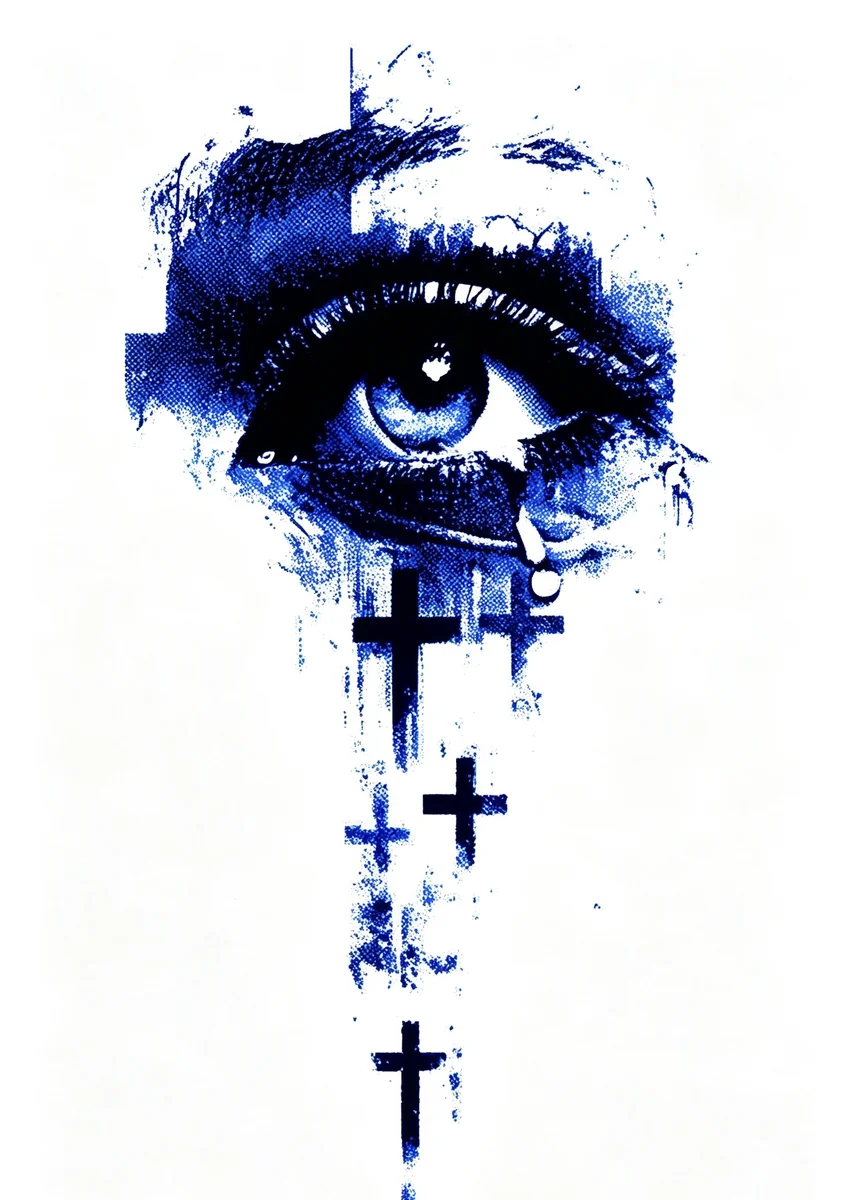
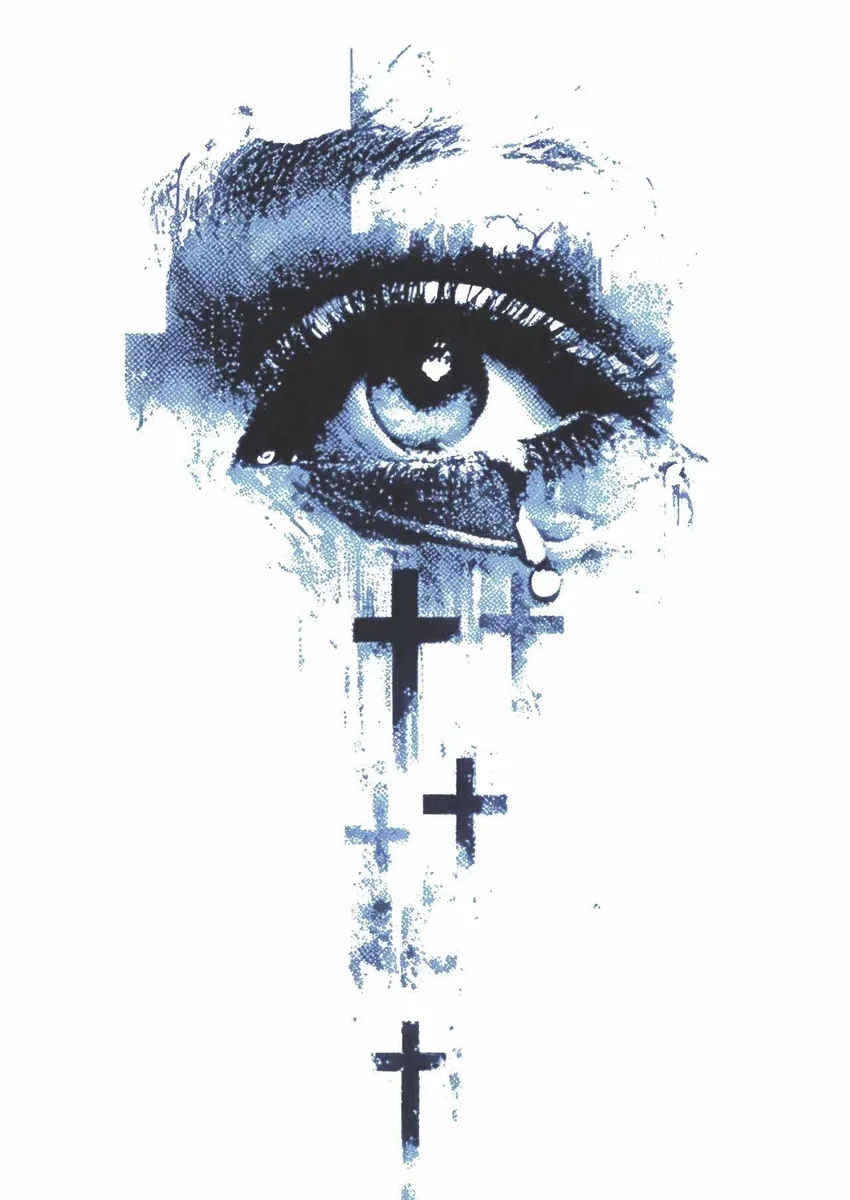
卡牌换浅色三图，调整性别/属性/落款/常驻文案

diff --git a/index.html b/index.html
@@ -483,9 +483,9 @@
       <div data-page-node-id="f5ceZTB6jKAV2QPMeKoD5P" class="grid">
         <div data-page-node-id="czmOewVpC90mCVBrnOC0pb" class="cell"><div data-page-node-id="BE14ZeNRv9PHfHQxwQjYBP" class="k"><!--pnid:E0dKkLX16MwP3M10y8sS9s-->名 字</div><div data-page-node-id="eHG8ke9ofEZWpDqRUjC76h" class="v"><!--pnid:Ljck2cOmpOpibsC0WbaqLj-->沧屿 / island</div></div>
         <div data-page-node-id="L1TpiFMY92O3sCgE7yH8b5" class="cell"><div data-page-node-id="euewUX5Sf2VRHiiRj0Drub" class="k"><!--pnid:jsrpVQ55gF4tIdyWVYjyOR-->年 龄</div><div data-page-node-id="mWNr4PZ5445DF4oMcnvcyq" class="v"><!--pnid:O49SO1rgJNLJTSGxYvdq9r-->19</div></div>
-        <div data-page-node-id="1TbGcJC2VA0xR3E2TVITYK" class="cell"><div data-page-node-id="ChG8NroP0RZoZoHGaFvPSV" class="k"><!--pnid:CqEWPJkqHDpCizrwaEIO3G-->性 别</div><div data-page-node-id="BC5T3FcKg1KQzTOv1TRBWv" class="v"><!--pnid:GzjFGf3Yr27ptKReKGjQZV-->泛</div></div>
+        <div data-page-node-id="1TbGcJC2VA0xR3E2TVITYK" class="cell"><div data-page-node-id="ChG8NroP0RZoZoHGaFvPSV" class="k"><!--pnid:CqEWPJkqHDpCizrwaEIO3G-->性 别</div><div data-page-node-id="BC5T3FcKg1KQzTOv1TRBWv" class="v"><!--pnid:GzjFGf3Yr27ptKReKGjQZV-->常驻-观宴</div></div>
         <div data-page-node-id="K9yo2nMr0lyaUU9l56NCdB" class="cell"><div data-page-node-id="LqLUphc6YguRWCcn7fAvwK" class="k"><!--pnid:bpvgkf8PTzWWYcRQoKNhQ7-->M B T I</div><div data-page-node-id="dNKUeI2HFmRqM6goQ7QtC9" class="v"><!--pnid:Wstp8MRVNuIkuu22phBEgD-->intp</div></div>
-        <div data-page-node-id="fA58unQM4yVXUm8hZogD00" class="cell"><div data-page-node-id="STNgvOYORQLYbVd9bZcEMi" class="k"><!--pnid:TrsnQbjIhY8ssPgedGHRru-->属 性</div><div data-page-node-id="SIl2znxNRb3uC6fIAVJBvI" class="v"><!--pnid:C4xx5iS5kfG5hgH3aTmQc1-->八无</div></div>
+        <div data-page-node-id="fA58unQM4yVXUm8hZogD00" class="cell"><div data-page-node-id="STNgvOYORQLYbVd9bZcEMi" class="k"><!--pnid:TrsnQbjIhY8ssPgedGHRru-->属 性</div><div data-page-node-id="SIl2znxNRb3uC6fIAVJBvI" class="v"><!--pnid:C4xx5iS5kfG5hgH3aTmQc1-->泛/八无</div></div>
         <div data-page-node-id="lWfZlfIpegWA78xIaXnHGL" class="cell"><div data-page-node-id="5835ka4LnENbWXFOB8qbV0" class="k"><!--pnid:k0bh4CH3MRMw2WEq3wROz2-->星 座</div><div data-page-node-id="eZood6nKjWnmXXlQonaFZT" class="v"><!--pnid:TWnHauk5RCQ1ogKwiY2zWW-->射手</div></div>
       </div>
     </div>
@@ -619,7 +619,7 @@
       <span data-page-node-id="twwqQHlmhNbO5xEszOynK9" aria-hidden="true" class="mini-bird"><img data-page-node-id="gzYXyDLm58Neh7Y5FG15jN" alt aria-hidden="true" src="images/bird-icon.png"></span>
       <div data-page-node-id="HAgbTLVyxAxl6RvvjyXCmB" class="ever-txt">
         <span data-page-node-id="LXCeXXJSnpyFFGp8ADKDj8" class="ever-k"><!--pnid:JncmZChRqA4bGzzyFg381V-->常 驻</span>
-        <span data-page-node-id="OCN4wefRqGw0ZKoWlMg7Bt" class="ever-v"><!--pnid:mmP0UTHZllm9nhxmvHvI2D-->羽枭 <em data-page-node-id="GKVtyz2swCYERshbvlnE1k"><!--pnid:EK92jUtXvd5PHfmtrnWSyj-->|</em><!--pnid:lEVRratfWsI0Zu69yzUnbK--> 观宴</span>
+        <span data-page-node-id="OCN4wefRqGw0ZKoWlMg7Bt" class="ever-v"><!--pnid:mmP0UTHZllm9nhxmvHvI2D-->羽枭</span>
       </div>
     </div>
   </section>
@@ -631,7 +631,7 @@
       <div data-page-node-id="HQUUCG44dLxglHpewIZ3V6" class="epi">
         <div data-page-node-id="T4Ib06diS20JWlCY8llxQH" class="epi-mark"><!--pnid:ap58S5ZmomPmTdh3k9RynY-->— 尾 声 —</div>
         <p data-page-node-id="jXh7mq7X8buyGqmadDgA3D" class="epi-line epi-day"><!--pnid:xg3wO62f0i0WHQfPq1T6Hx-->No one but you<span data-page-node-id="ST1rqZKjqGOJXBBfJEAgoQ" class="gap"></span><!--pnid:SMkw4jde62STdKDxovZGoj-->I didn't call it fate until I met you</p>
-        <div data-page-node-id="7GDQPH9a8QCbxbXNo03Cod" class="epi-sign"><!--pnid:lruqlntb5Pm9e3nc8cOvTe-->沧 屿</div>
+        <div data-page-node-id="7GDQPH9a8QCbxbXNo03Cod" class="epi-sign"><!--pnid:lruqlntb5Pm9e3nc8cOvTe-->来见我</div>
       </div>
     </div>
   </section>
